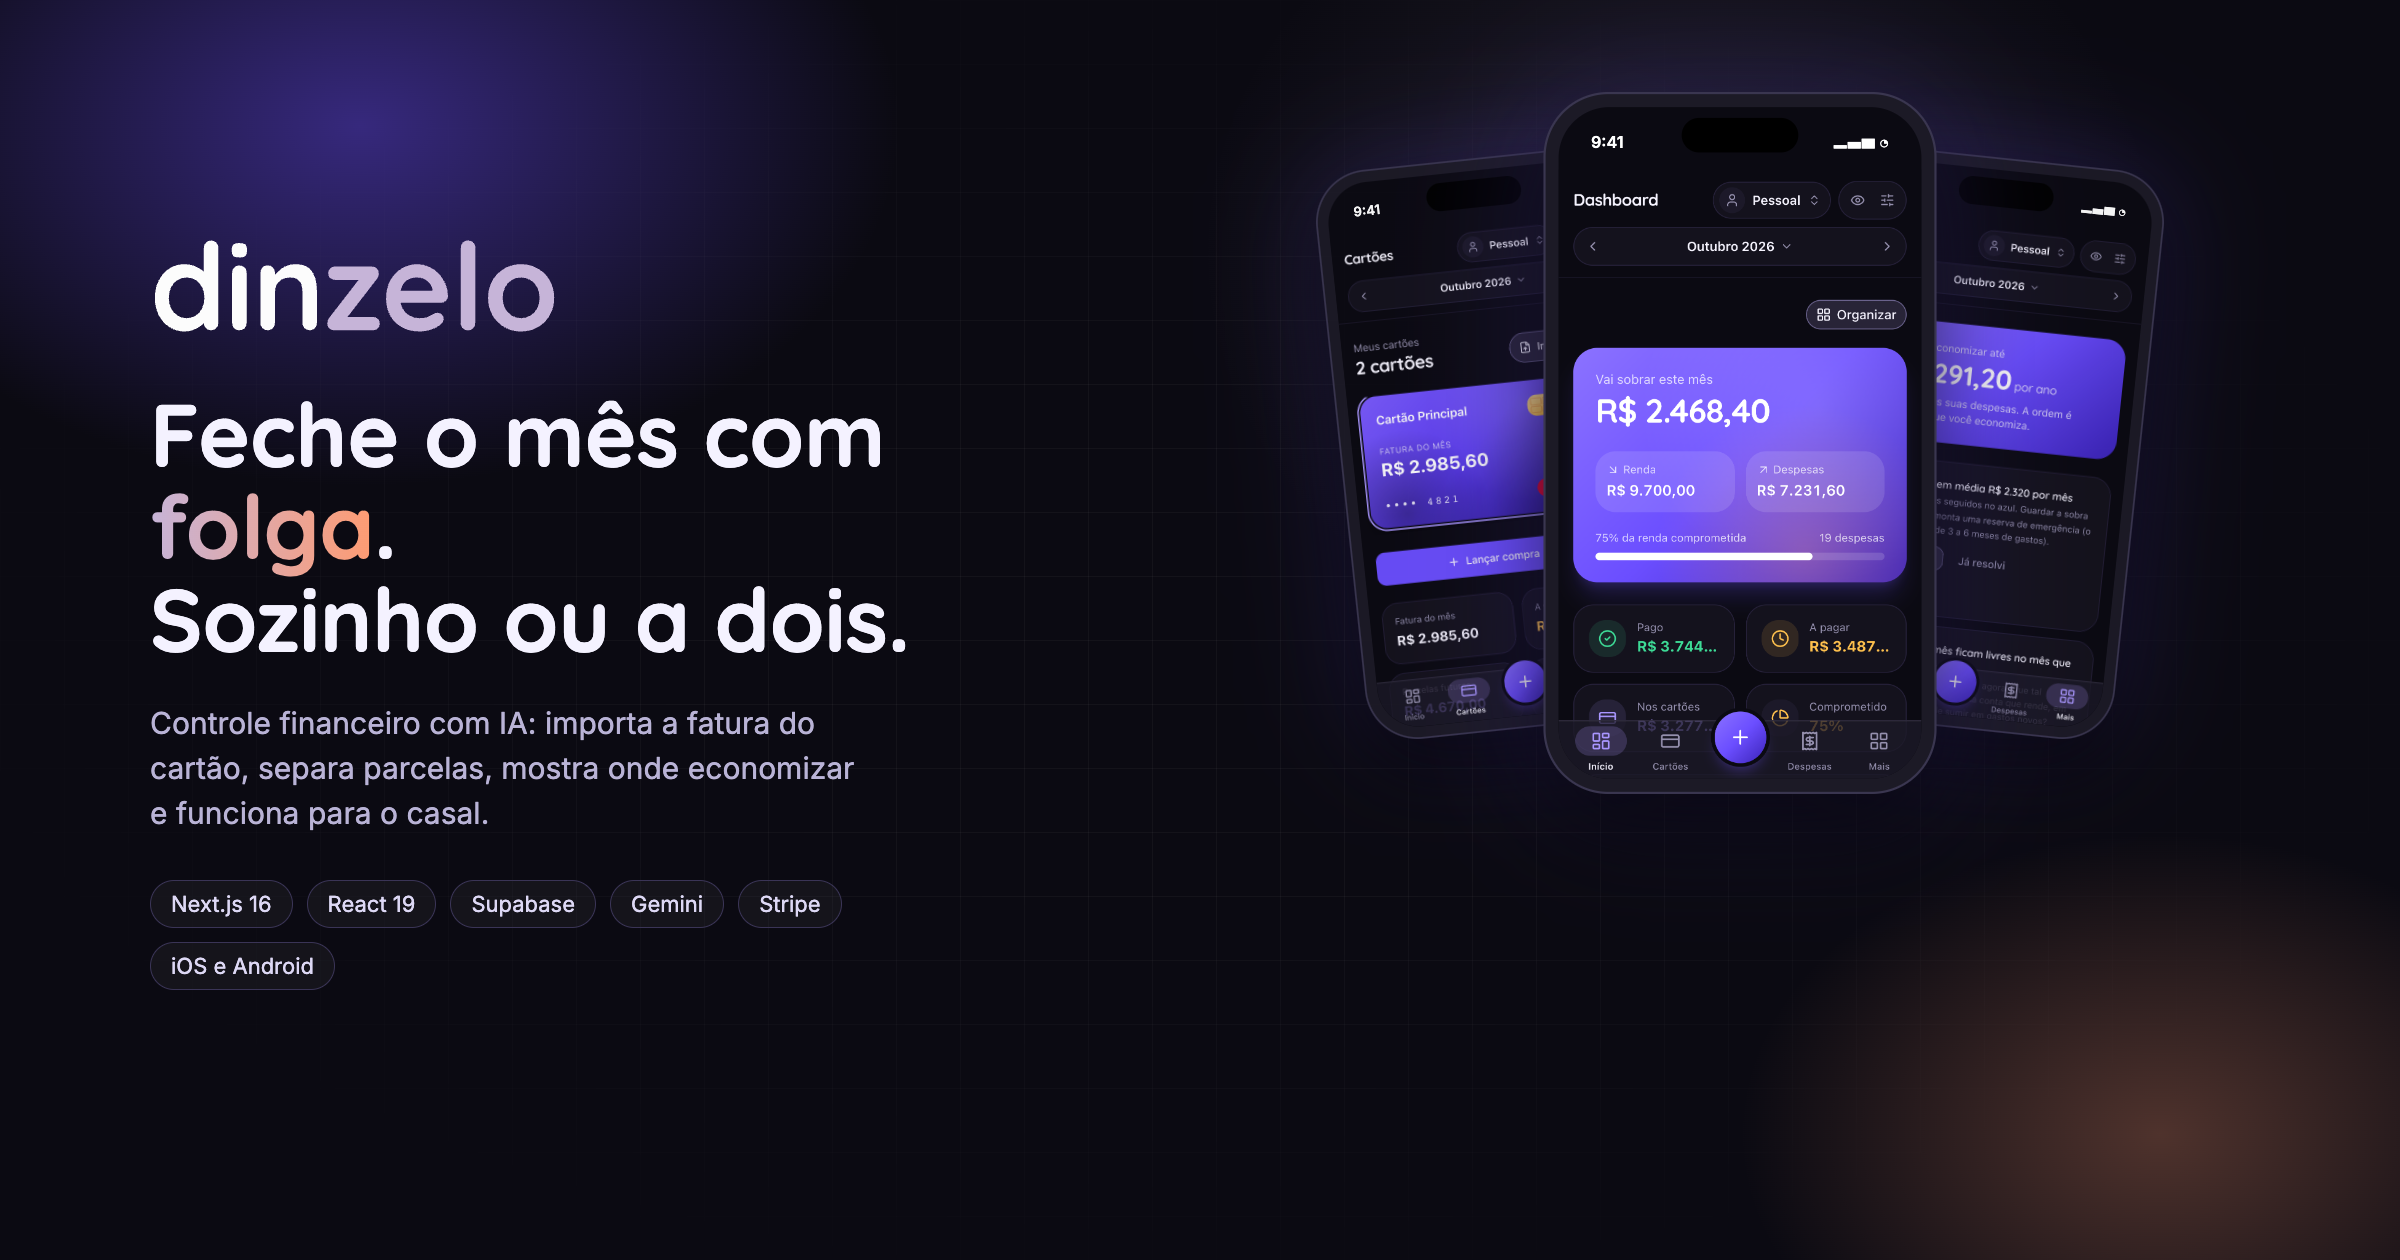
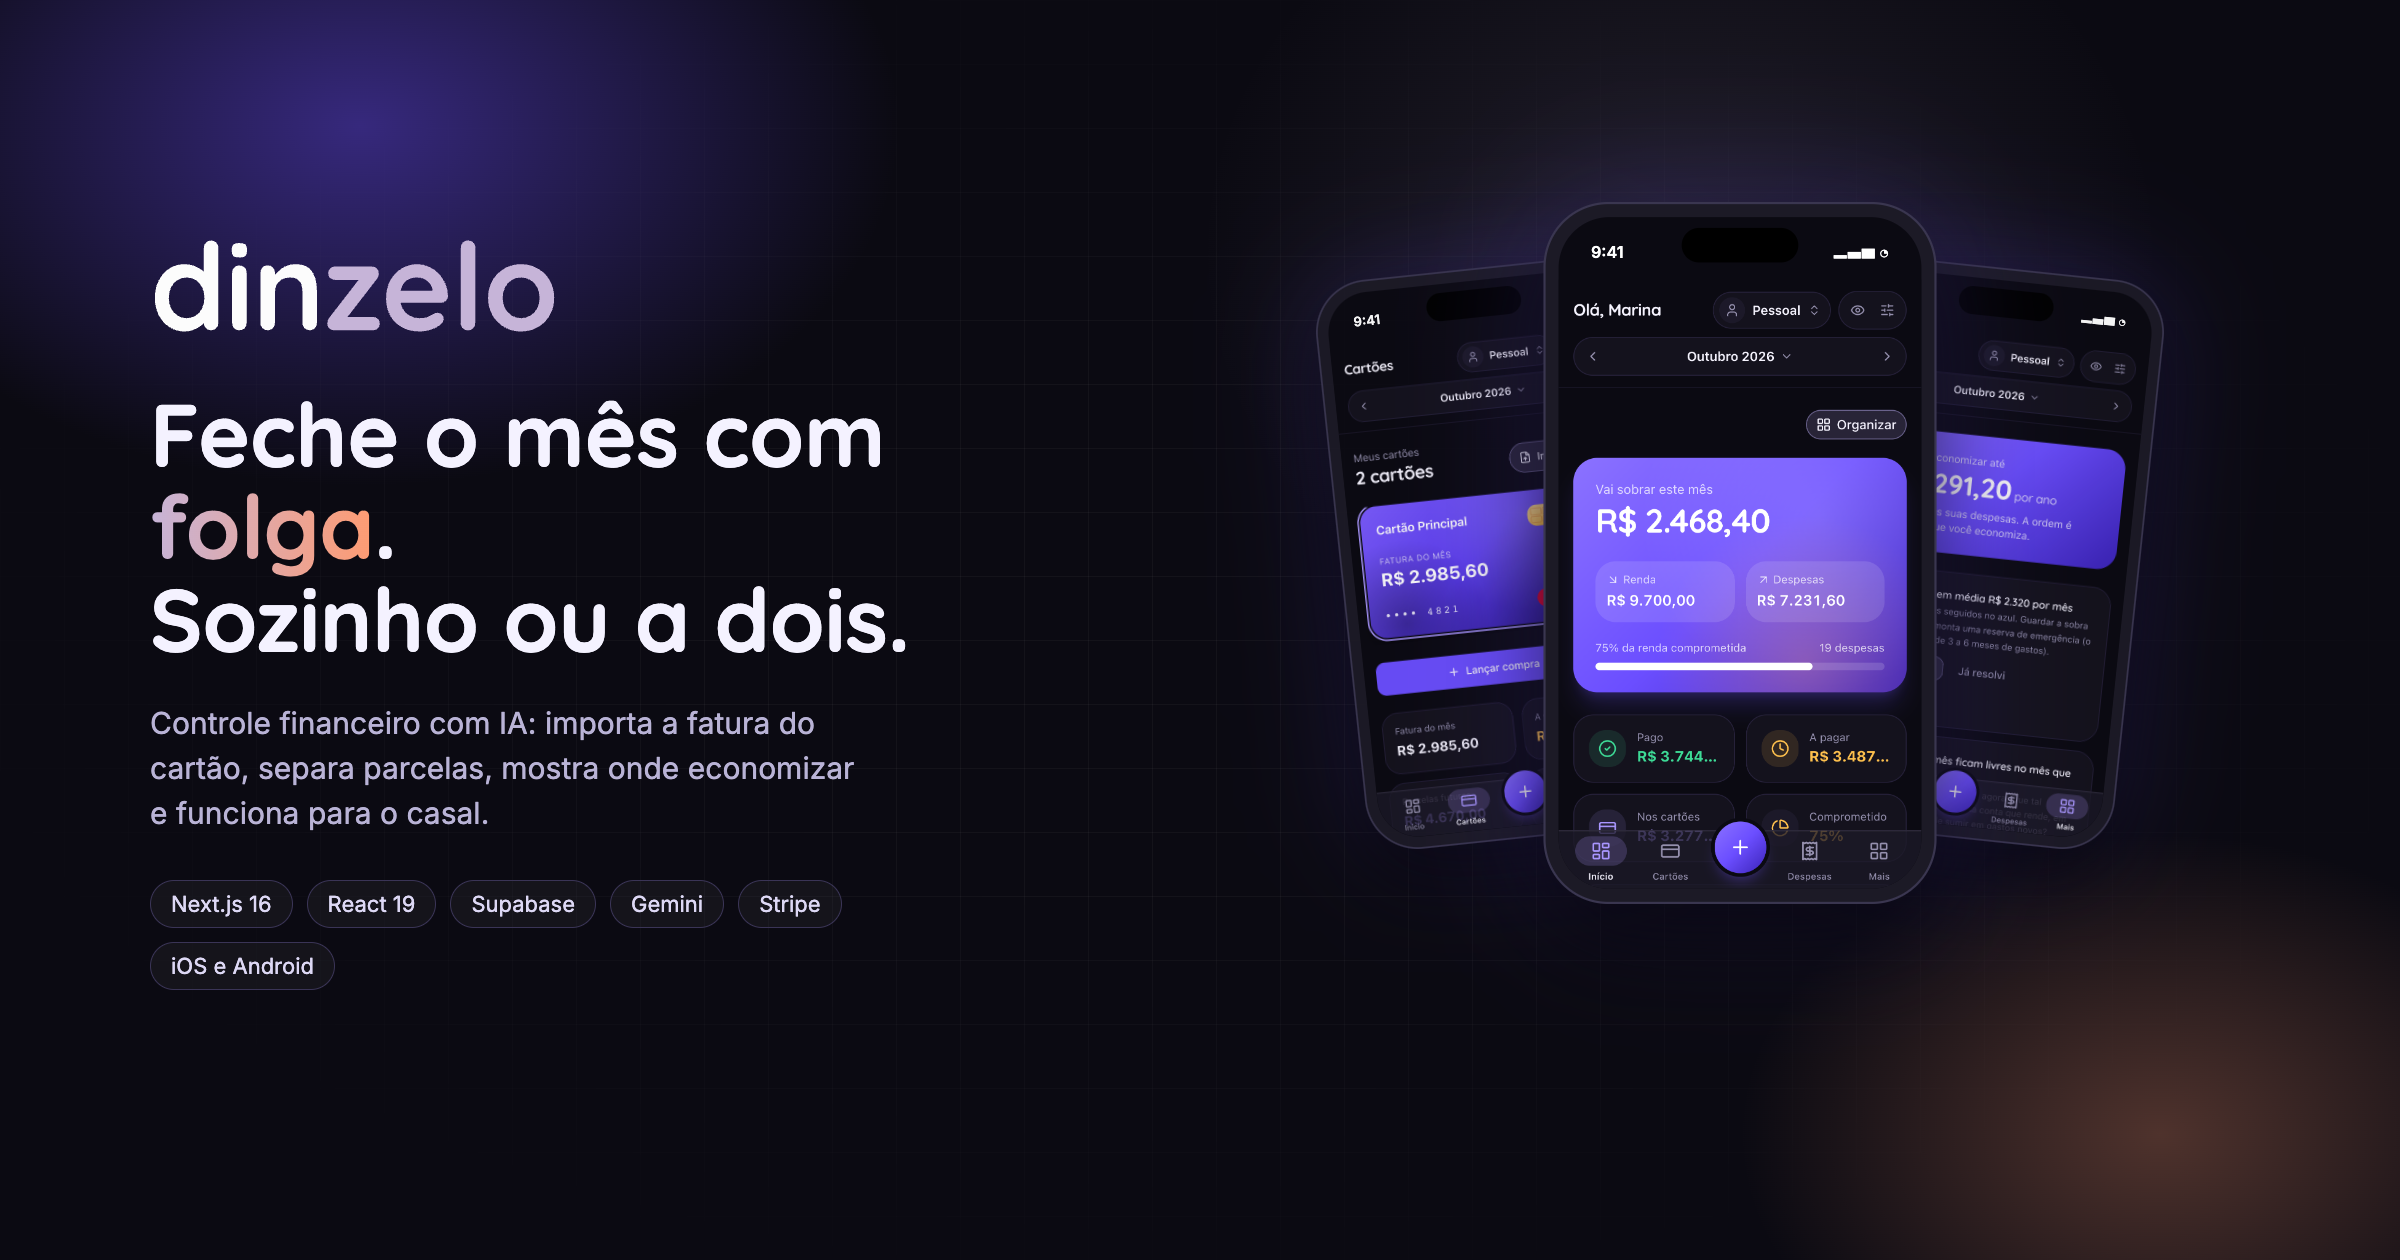
Vitrine atualizada: página Planos, saudação pelo nome e novas telas

Changed region(s): [[0.5625, 0.0929, 0.9062, 0.7119], [0.8125, 0.0929, 0.8438, 0.1238]]

diff --git a/README.md b/README.md
@@ -67,13 +67,14 @@ Controlar dinheiro no Brasil tem particularidades que planilhas e apps estrangei
 | Recurso | O que faz |
 |---|---|
 | **Importar fatura** | Lê PDF ou imagem da fatura com IA, monta o cartão (final, limite, fechamento e vencimento), lança as compras, transforma "03/10" em série parcelada, marca o que já estava lançado e confere a soma com o total impresso na fatura. Nada é lançado antes da revisão, e o arquivo é descartado. |
-| **Visão do mês** | Saldo previsto, pago e a pagar, total nos cartões e percentual da renda comprometido. Os cards do painel podem ser reorganizados arrastando, inclusive pelo teclado. |
+| **Visão do mês** | Cumprimenta pelo nome e mostra o saldo previsto, pago e a pagar, total nos cartões e percentual da renda comprometido. Os cards do painel podem ser reorganizados arrastando, inclusive pelo teclado. |
 | **Cartões e parcelas** | Fatura do mês, limite comprometido, parcelas restantes e o mês em que cada uma termina. |
 | **Economize** | Encontra assinaturas somadas, tarifas e anuidade, juros e IOF, parcelas que acabam e sobra frequente, ordenados pelo quanto a pessoa economiza por ano. Cada dica pode ser marcada como "Já resolvi" ou "Não se aplica". |
 | **Espaços compartilhados** | O casal ou a família lança no mesmo espaço por convite com link. Cada um mantém seu login e um espaço pessoal privado, e o app mostra quem lançou o quê. |
 | **Planejamento** | Orçamento mensal por categoria, metas com prazo e referência da regra 50/30/20. |
 | **Comparativo e projeção** | Evolução de renda, despesas e saldo mês a mês, e projeção do ano com contas fixas, parcelas e média dos gastos variáveis. |
 | **Assistente com IA** | Perguntas em linguagem natural sobre os próprios dados, como "onde posso economizar este mês?". |
+| **Planos** | Página própria com o plano atual, os dias restantes do teste, o uso do mês, a assinatura pelo Stripe e uma tabela comparando o que cada plano inclui. |
 | **Modo privacidade** | Esconde os valores na tela com um toque, útil em lugar público. |
 | **Apps para iPhone e Android** | Mesma base de código, com acabamento de cada plataforma: área segura do notch, resposta tátil e estilos próprios. |
 
@@ -163,6 +164,10 @@ flowchart LR
 | Comparativo de 3 meses | Orçamentos, metas e projeção anual | |
 
 Toda conta nova começa com **10 dias de teste com tudo liberado**, sem cartão de crédito. O plano anual sai 33% mais barato.
+
+<p align="center">
+  <img src="imagens/planos.png" alt="Página de planos: 10 dias com tudo liberado, sem cartão de crédito" width="100%">
+</p>
 
 ## Próximos passos
 
